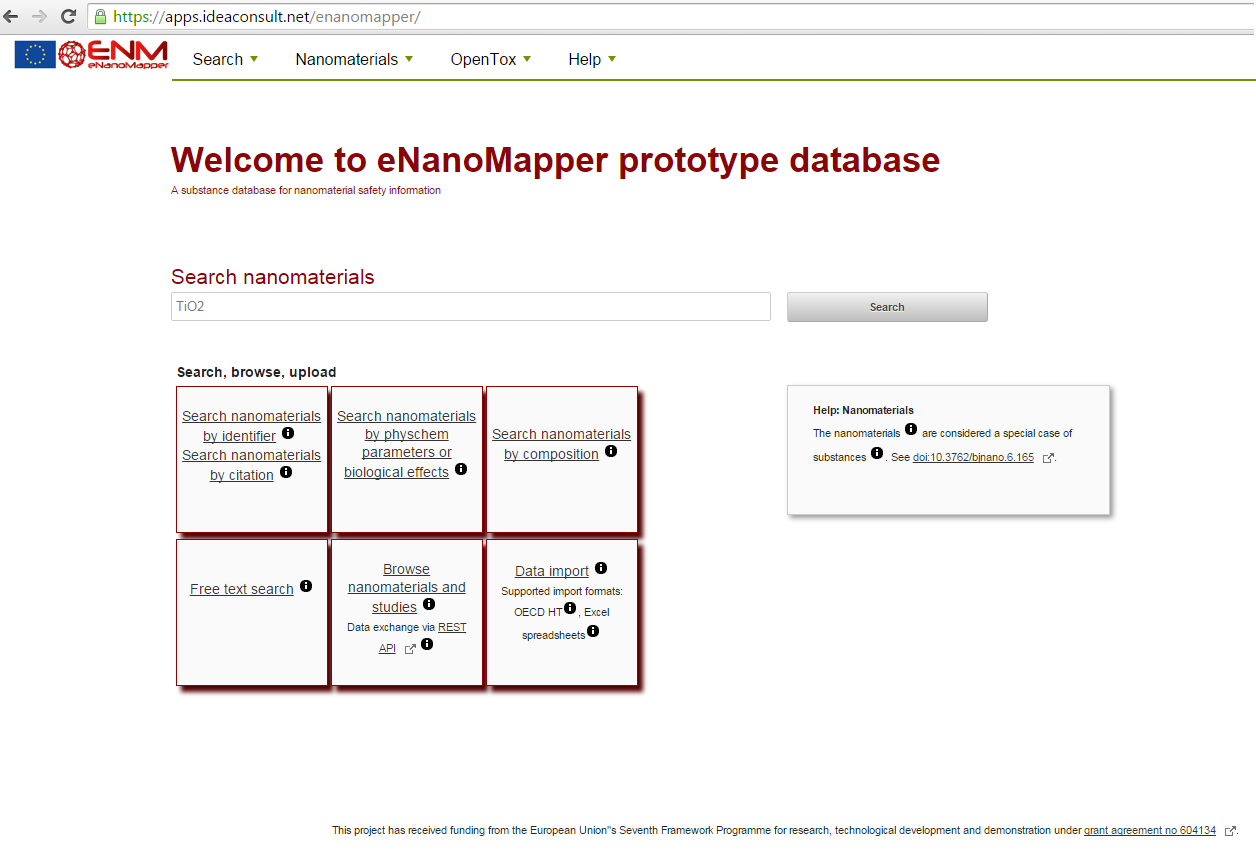
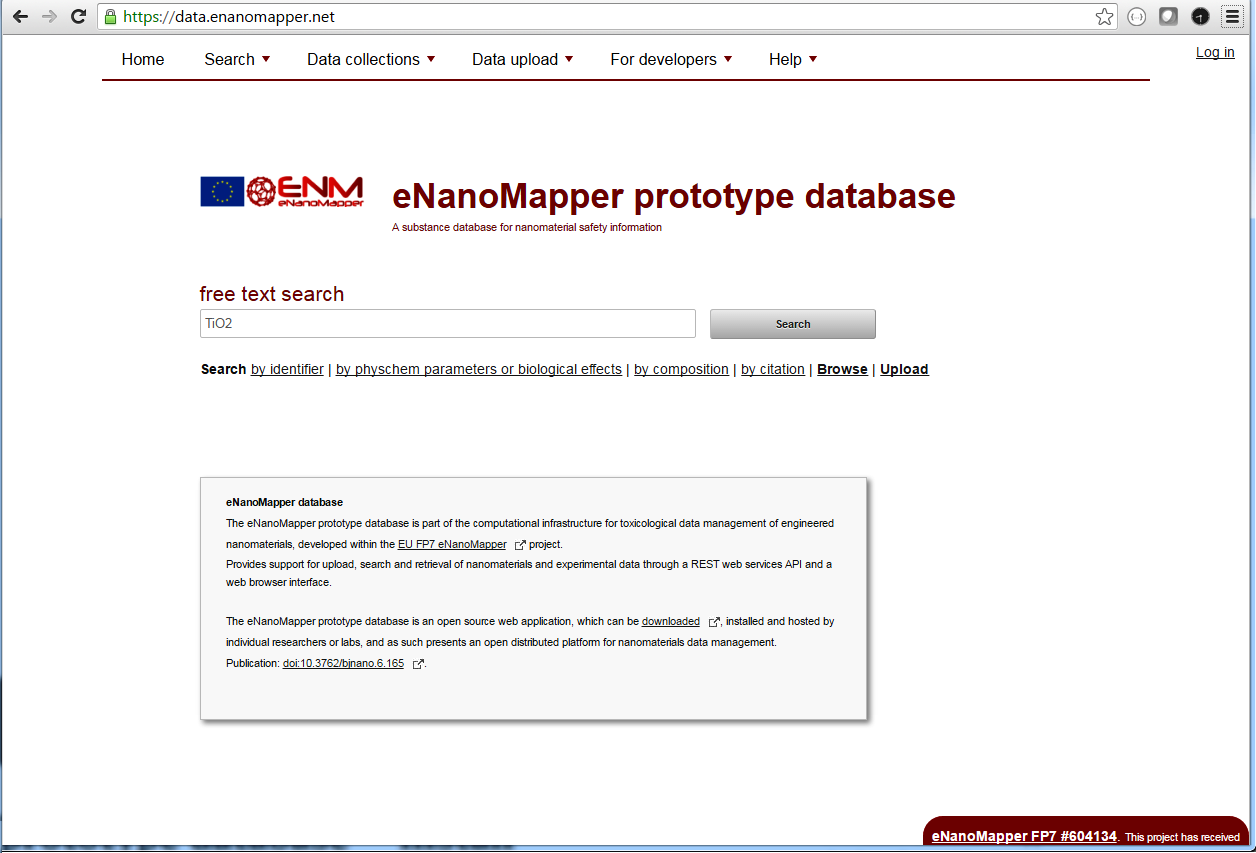
site updqate

diff --git a/ambit2-all/ambit2-apps/src/site/markdown/enanomapper.md b/ambit2-all/ambit2-apps/src/site/markdown/enanomapper.md
@@ -4,6 +4,12 @@
 
 eNanoMapper database  a substance database for nanomaterial safety information
 
+#### [Data collections][data_collection]
+
+![Data collections](./images/enanomapper/screenshots/bundles.png "Data collections")
+
+Data collections
+
 #### [Endpoint search][endpoint_search]
 
 ![Endpoint search](./images/enanomapper/screenshots/search_size.png "Search nanomaterials by size")
@@ -22,10 +28,18 @@ Nanomaterial physicochemical characterisaion
 
 Nanomaterial studies (Protein corona)
 
+#### [Free text search][text_search]
+
+![Free text search](./images/enanomapper/screenshots/search.png "Free text search")
+
+Free text search on eNanoMapper and cananoLab databases
+
 [frontpage]: enanomapper.html
 [endpoint_search]: enanomapper_usage.html
 [physchem]: enanomapper_usage_substance.html
 [bundle]: enanomapper_usage_substance.html
+[text_search]: enanomapper.html
+[data_collection]: enanomapper.html
 
 ---
 
@@ -77,7 +91,7 @@ Try the public web services, datasets and models :
 
 -   [**Browse nanomaterials and studies**](https://apps.ideaconsult.net/enanomapper/substance)
 
--   [**Free text search**](https://apps.ideaconsult.net/enanomapper/ontobucket?search=cytotoxicity%26type=protocol%26qe=true)
+-   [**Free text search**](https://search.data.enanomapper.net)
 
 Browse and try eNanoMapper database REST API
 
